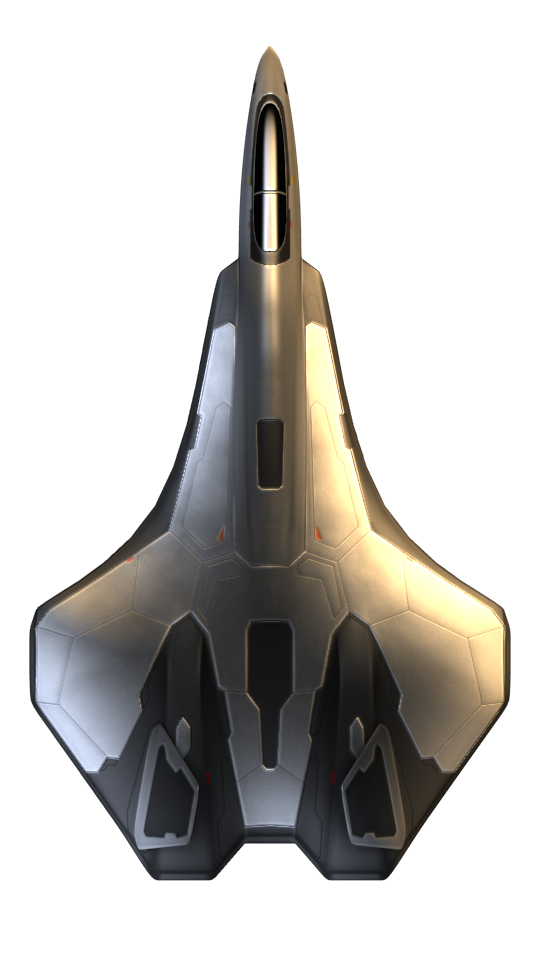
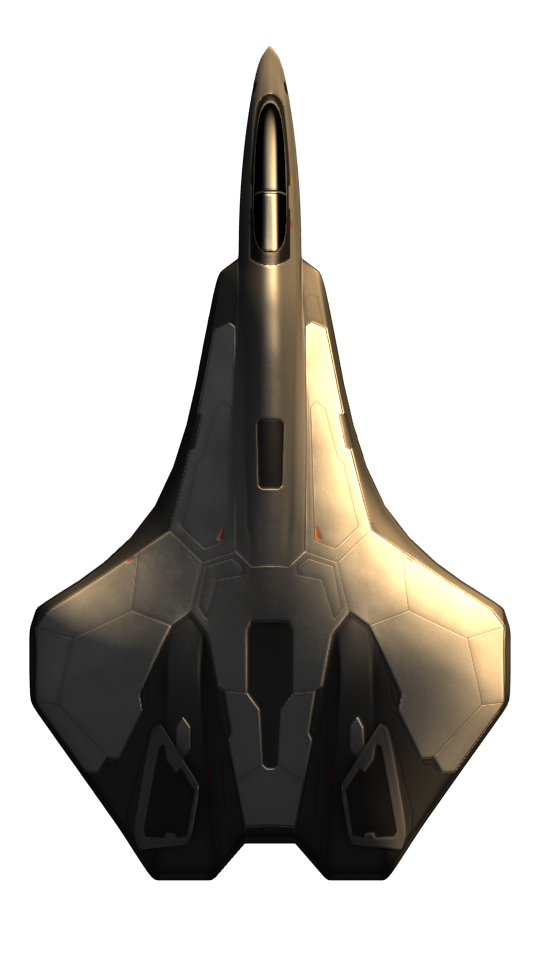
update docs

diff --git a/README.md b/README.md
@@ -48,20 +48,28 @@ Input             |  Output
 
 ### Shining
 
-Example shining with yellow and orange:
+Example shining with default:
 
     [imageprocessor[.exe]] normalmap shine \
-        --direction=45
-        --direction=-135
-        --energy=1
-        --energy=0.8
-        --color=f6da49
-        --color=cd1621
         example.png
 
-Default             |  Custom
+Example shining with rainbow:
+
+    [imageprocessor[.exe]] normalmap shine \
+        --color="FF0000" \
+        --color="00FF00" \
+        --color="0000FF" \
+        --direction=0 \
+        --direction=120 \
+        --direction=-120 \
+        --energy=1 \
+        --energy=1 \
+        --energy=1 \
+        example.png
+
+Default             |  Rainbow
 :-------------------------:|:-------------------------:
-![alt text](example_shining_1.png "Default") | ![alt text](example_shining_2.png "Custom")
+![alt text](example_shining_1.png "Default") | ![alt text](example_shining_2.png "Rainbow")
 
 Creating a shining requires that the normal map exists first, and you must specify the suffix if you haven't use the default.
 
@@ -75,12 +83,12 @@ Creating a shining requires that the normal map exists first, and you must speci
     OPTIONS:
     --exclude value, -e value [ --exclude value, -e value ]  List of filename regular expressions for exclusion
     --suffix value, -s value                                 The normal map suffix (default: "_n")
-    --direction value [ --direction value ]                  The direction of the sun from north in degrees, clamped between -180 and 180 (default: 45, -135)
-    --energy value [ --energy value ]                        Sun's energy, essentially a color multiplier, baseline is 1, 0.5 is half, 2 is double (default: 1, 0.8)
-    --color value [ --color value ]                          Color of the light in 24bit hexadecimal (default: "ffca83", "c6d5f4")
+    --direction value [ --direction value ]                  The direction of the sun from north in degrees, clamped between -180 and 180 (default: 45)
+    --energy value [ --energy value ]                        Sun's energy, essentially a color multiplier, baseline is 1, 0.5 is half, 2 is double (default: 1)
+    --color value [ --color value ]                          Color of the light in 24bit hexadecimal (default: "ffca83")
     --shadow value                                           Percentage of base light level, for example 0.3 will darken the image to 30%% color is no light is present (default: 0.3)
     --reaction value                                         How reactive the texture is to the light, this is affected by shadow, a darker shadow requires a higher reaction (default: 10)
-    --help, -h  show help
+    --help, -h                                               show help
 
     PixelRGB = 
         (PixelRGB * Shadow) +
